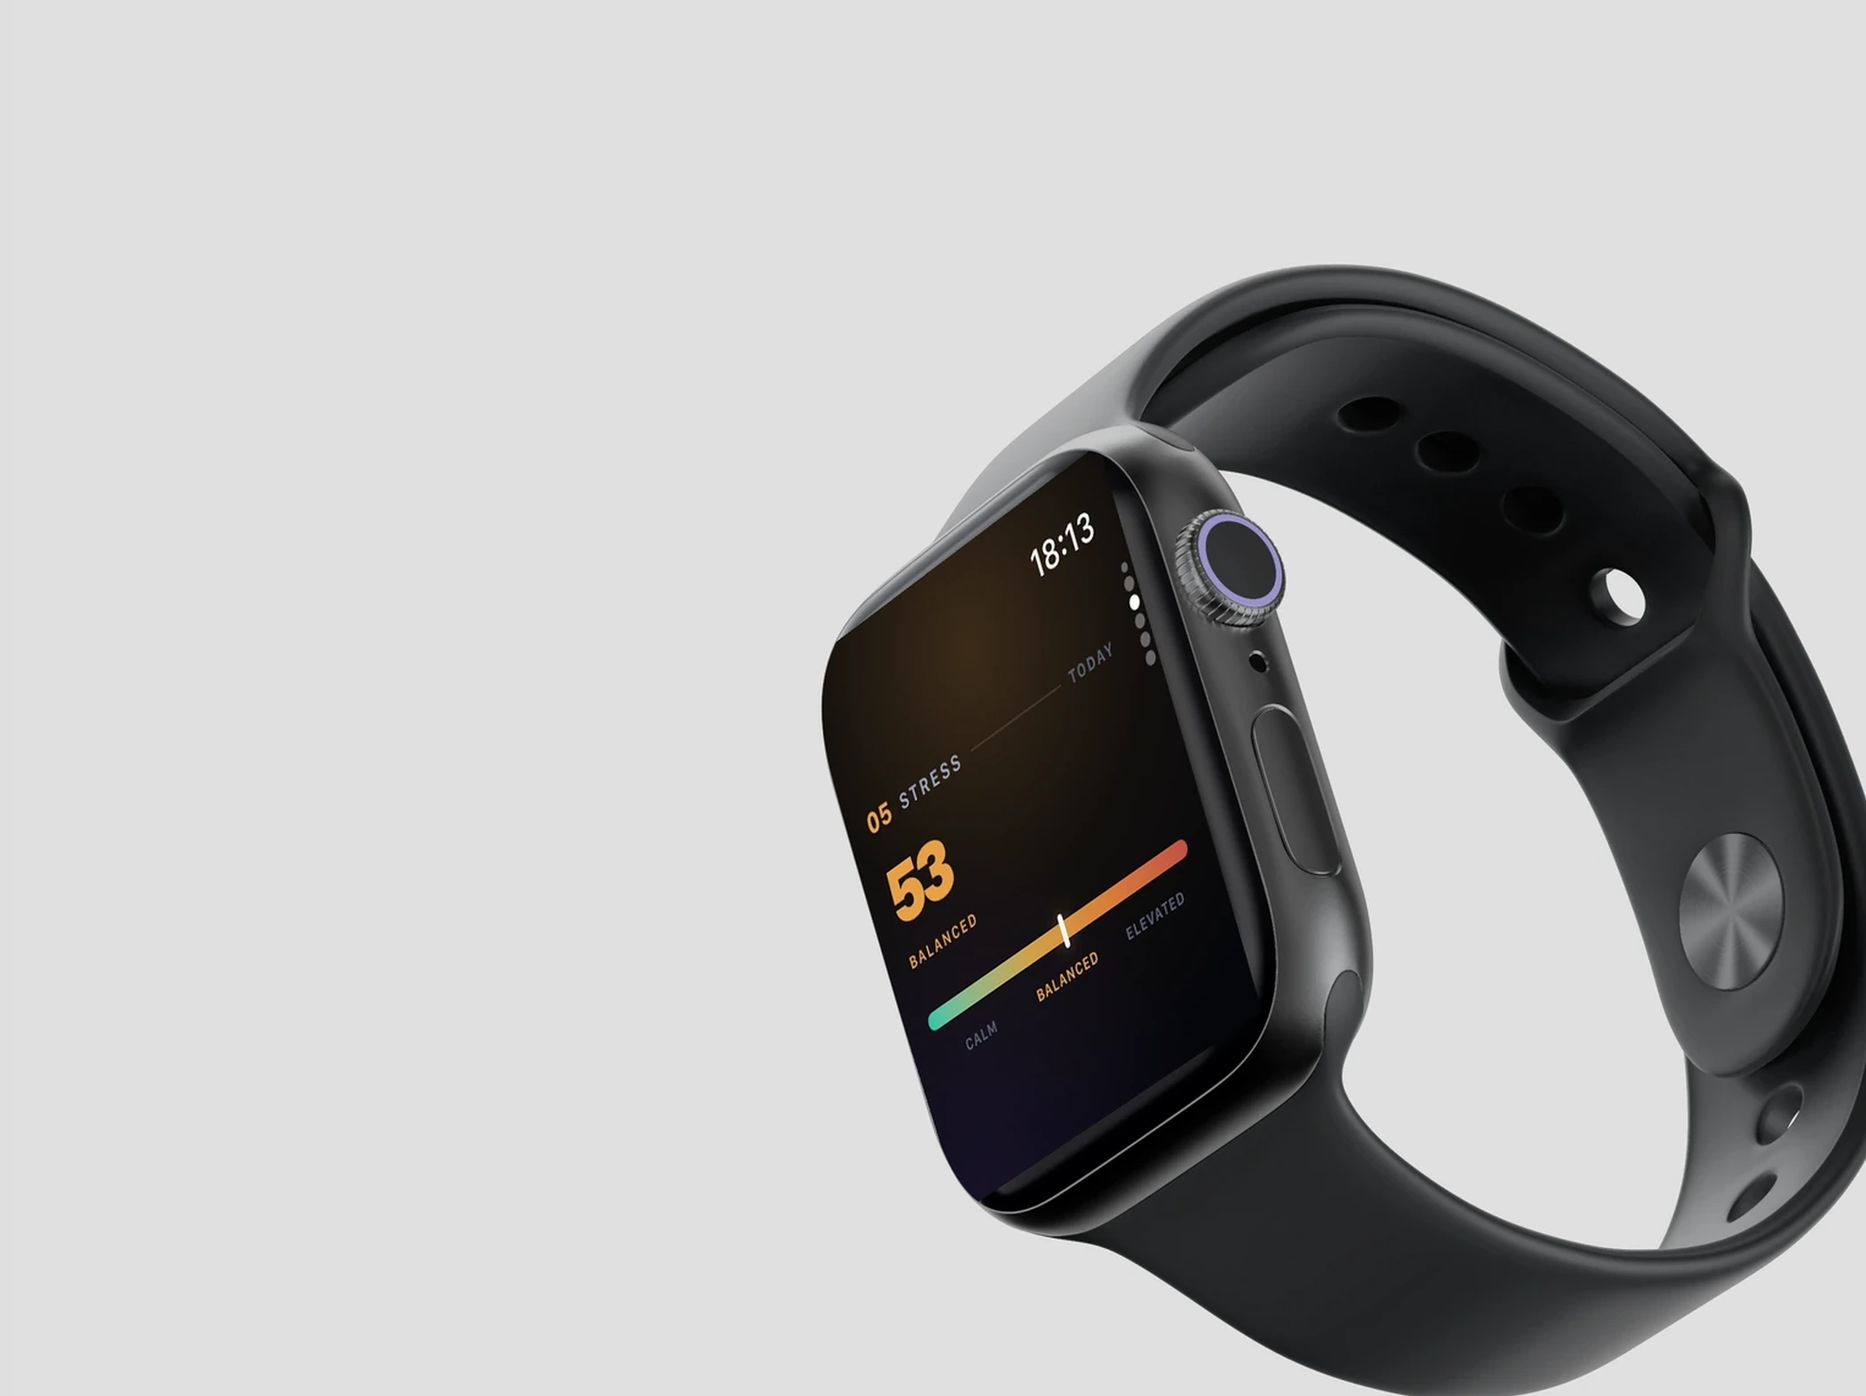
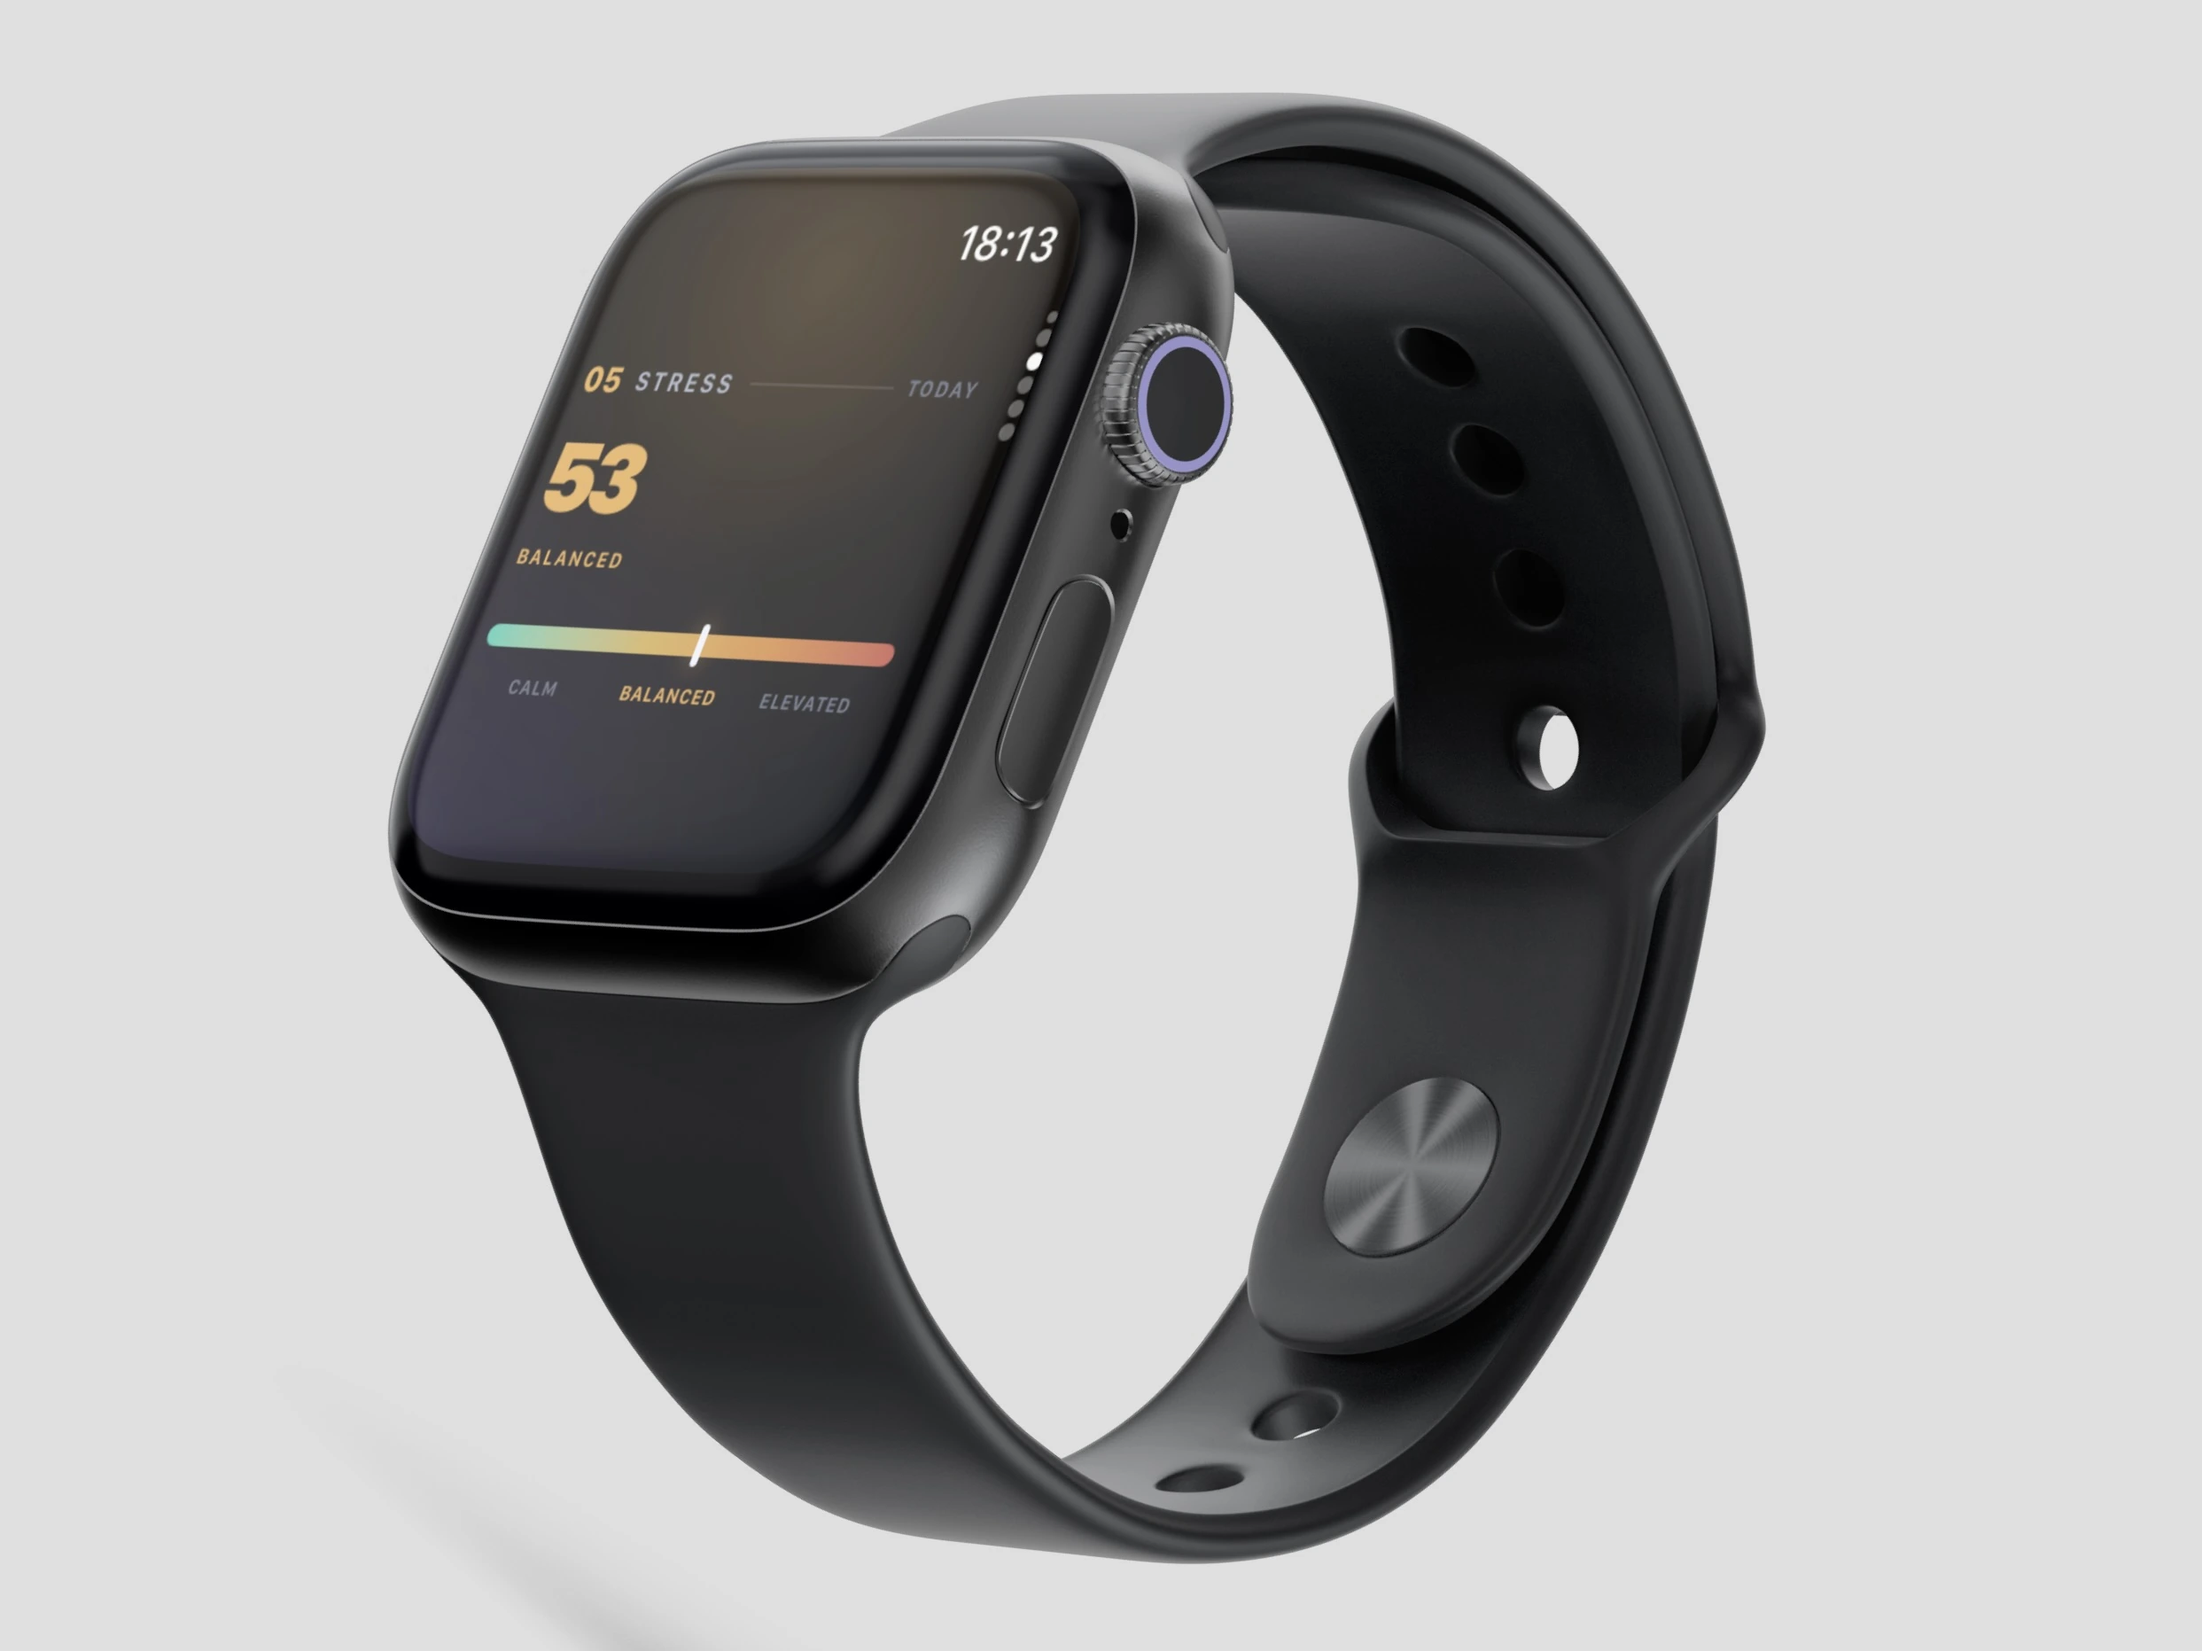
Match Apple Watch editorial composition

diff --git a/assets/site.css b/assets/site.css
@@ -2240,72 +2240,55 @@ h3 {
 
 .watch-feature {
   position: relative;
-  min-height: clamp(590px, 50vw, 790px);
+  min-height: clamp(520px, 45vw, 640px);
   overflow: hidden;
-  border: 1px solid rgba(255, 255, 255, 0.42);
-  border-radius: clamp(34px, 4vw, 58px);
-  background: #dedede;
+  border-radius: 24px;
+  background: #e0e0e0;
   box-shadow:
-    0 52px 120px rgba(0, 0, 0, 0.34),
-    inset 0 1px 0 rgba(255, 255, 255, 0.76);
+    0 44px 110px rgba(0, 0, 0, 0.28),
+    inset 0 1px 0 rgba(255, 255, 255, 0.74);
 }
 
 .watch-feature-image {
   position: absolute;
-  inset: 0;
+  top: 10%;
+  bottom: -25%;
+  left: -14%;
   display: block;
-  width: 100%;
-  height: 100%;
+  width: 72%;
+  height: 116%;
+  max-width: none;
   object-fit: cover;
-  object-position: center;
-  transform: scale(1.002);
+  object-position: 54% 50%;
+  transform: translate3d(0, 0, 0);
   transition: transform 1.1s cubic-bezier(0.16, 1, 0.3, 1);
 }
 
 .watch-feature:hover .watch-feature-image {
-  transform: scale(1.012);
+  transform: translate3d(0, -4px, 0) scale(1.008);
 }
 
 .watch-feature-copy {
   position: absolute;
   z-index: 2;
-  top: 50%;
-  left: clamp(42px, 6.2vw, 102px);
-  display: flex;
-  width: min(31%, 410px);
-  flex-direction: column;
-  justify-content: center;
-  transform: translateY(-50%);
-}
-
-.watch-feature-index {
-  color: rgba(13, 18, 28, 0.48);
-  font-family: var(--font-mono);
-  font-size: 11px;
-  font-weight: 600;
-  letter-spacing: 0.15em;
-  text-transform: uppercase;
-}
-
-.watch-feature-copy h2 {
-  margin: 20px 0 0;
-  color: #10131a;
-  font-family: var(--font-ui);
-  font-size: clamp(42px, 4.4vw, 70px);
-  font-weight: 620;
-  letter-spacing: -0.06em;
-  line-height: 0.96;
-  text-wrap: balance;
+  top: clamp(108px, 10vw, 138px);
+  right: clamp(40px, 4vw, 58px);
+  width: min(42%, 472px);
 }
 
 .watch-feature-copy > p {
-  margin: 24px 0 0;
-  color: rgba(16, 20, 29, 0.62);
-  font-family: var(--font-ui);
-  font-size: clamp(16px, 1.32vw, 19px);
-  font-weight: 540;
-  letter-spacing: -0.02em;
-  line-height: 1.5;
+  margin: 0;
+  color: rgba(0, 0, 0, 0.6);
+  font-family: "Inter", "SF Pro Text", -apple-system, BlinkMacSystemFont, sans-serif;
+  font-size: 17px;
+  font-weight: 500;
+  letter-spacing: -0.025em;
+  line-height: 1.3;
+}
+
+.watch-feature-copy strong {
+  color: #000;
+  font-weight: 650;
 }
 
 .wearable-rail {
@@ -4964,7 +4947,7 @@ body[data-page="nutrition"] .final-cta {
   }
 
   .watch-feature {
-    min-height: 620px;
+    min-height: 560px;
   }
 
   .apple-live-panel {
@@ -5405,52 +5388,39 @@ body[data-page="nutrition"] .final-cta {
   }
 
   .watch-feature {
-    min-height: 720px;
-    border-radius: 34px;
-    background: #dedede;
+    min-height: 650px;
+    border-radius: 24px;
+    background: #e0e0e0;
   }
 
   .watch-feature-image {
-    top: auto;
-    bottom: 0;
-    height: 58%;
+    top: 38%;
+    bottom: -16%;
+    left: -29%;
+    width: 142%;
+    height: 72%;
     object-fit: cover;
-    object-position: 61% 48%;
-    transform: scale(1.01);
+    object-position: 50% 50%;
+    transform: none;
   }
 
   .watch-feature-copy {
     top: 0;
     left: 0;
-    align-items: flex-start;
     width: 100%;
-    padding: 48px 34px 0;
-    transform: none;
-  }
-
-  .watch-feature-copy h2 {
-    max-width: 340px;
-    margin-top: 16px;
-    font-size: clamp(42px, 12.5vw, 58px);
+    padding: 54px 32px 0;
   }
 
   .watch-feature-copy > p {
-    max-width: 350px;
-    margin-top: 18px;
-    font-size: 16px;
+    max-width: 330px;
+    margin-inline: auto;
+    font-size: 17px;
+    line-height: 1.38;
+    text-align: left;
   }
 
   .watch-feature:hover .watch-feature-image {
-    transform: scale(1.01);
-  }
-
-  .watch-feature-index {
-    font-size: 10px;
-  }
-
-  .watch-feature-copy {
-    text-align: center;
-    align-items: center;
+    transform: none;
   }
 
   .wearable-rail {

diff --git a/index.html b/index.html
@@ -10,7 +10,7 @@
   <link rel="preconnect" href="https://fonts.googleapis.com">
   <link rel="preconnect" href="https://fonts.gstatic.com" crossorigin>
   <link rel="preconnect" href="https://use.typekit.net">
-  <link href="https://fonts.googleapis.com/css2?family=DM+Sans:ital,opsz,wght@0,9..40,300..700;1,9..40,300..700&family=Host+Grotesk:ital,wght@0,300..800;1,300..800&family=DM+Mono:ital,wght@0,300;0,400;0,500;1,300;1,400;1,500&display=swap" rel="stylesheet">
+  <link href="https://fonts.googleapis.com/css2?family=DM+Sans:ital,opsz,wght@0,9..40,300..700;1,9..40,300..700&family=Host+Grotesk:ital,wght@0,300..800;1,300..800&family=DM+Mono:ital,wght@0,300;0,400;0,500;1,300;1,400;1,500&family=Inter:wght@500;650&display=swap" rel="stylesheet">
   <link rel="stylesheet" href="https://use.typekit.net/jja4tyv.css">
   <link rel="stylesheet" href="/assets/site.css">
   <script src="https://cdn.jsdelivr.net/npm/lenis@1.3.17/dist/lenis.min.js" defer></script>
@@ -329,9 +329,9 @@
           >
 
           <div class="watch-feature-copy">
-            <span class="watch-feature-index">Lihas on your wrist</span>
-            <h2 id="watch-intelligence-title">Stress, at a glance.</h2>
+            <h2 id="watch-intelligence-title" class="visually-hidden">Lihas stress guidance on Apple Watch</h2>
             <p>
+              <strong>Stress, at a glance.</strong>
               See when your day is calm, balanced or elevated—right from your wrist.
             </p>
           </div>
